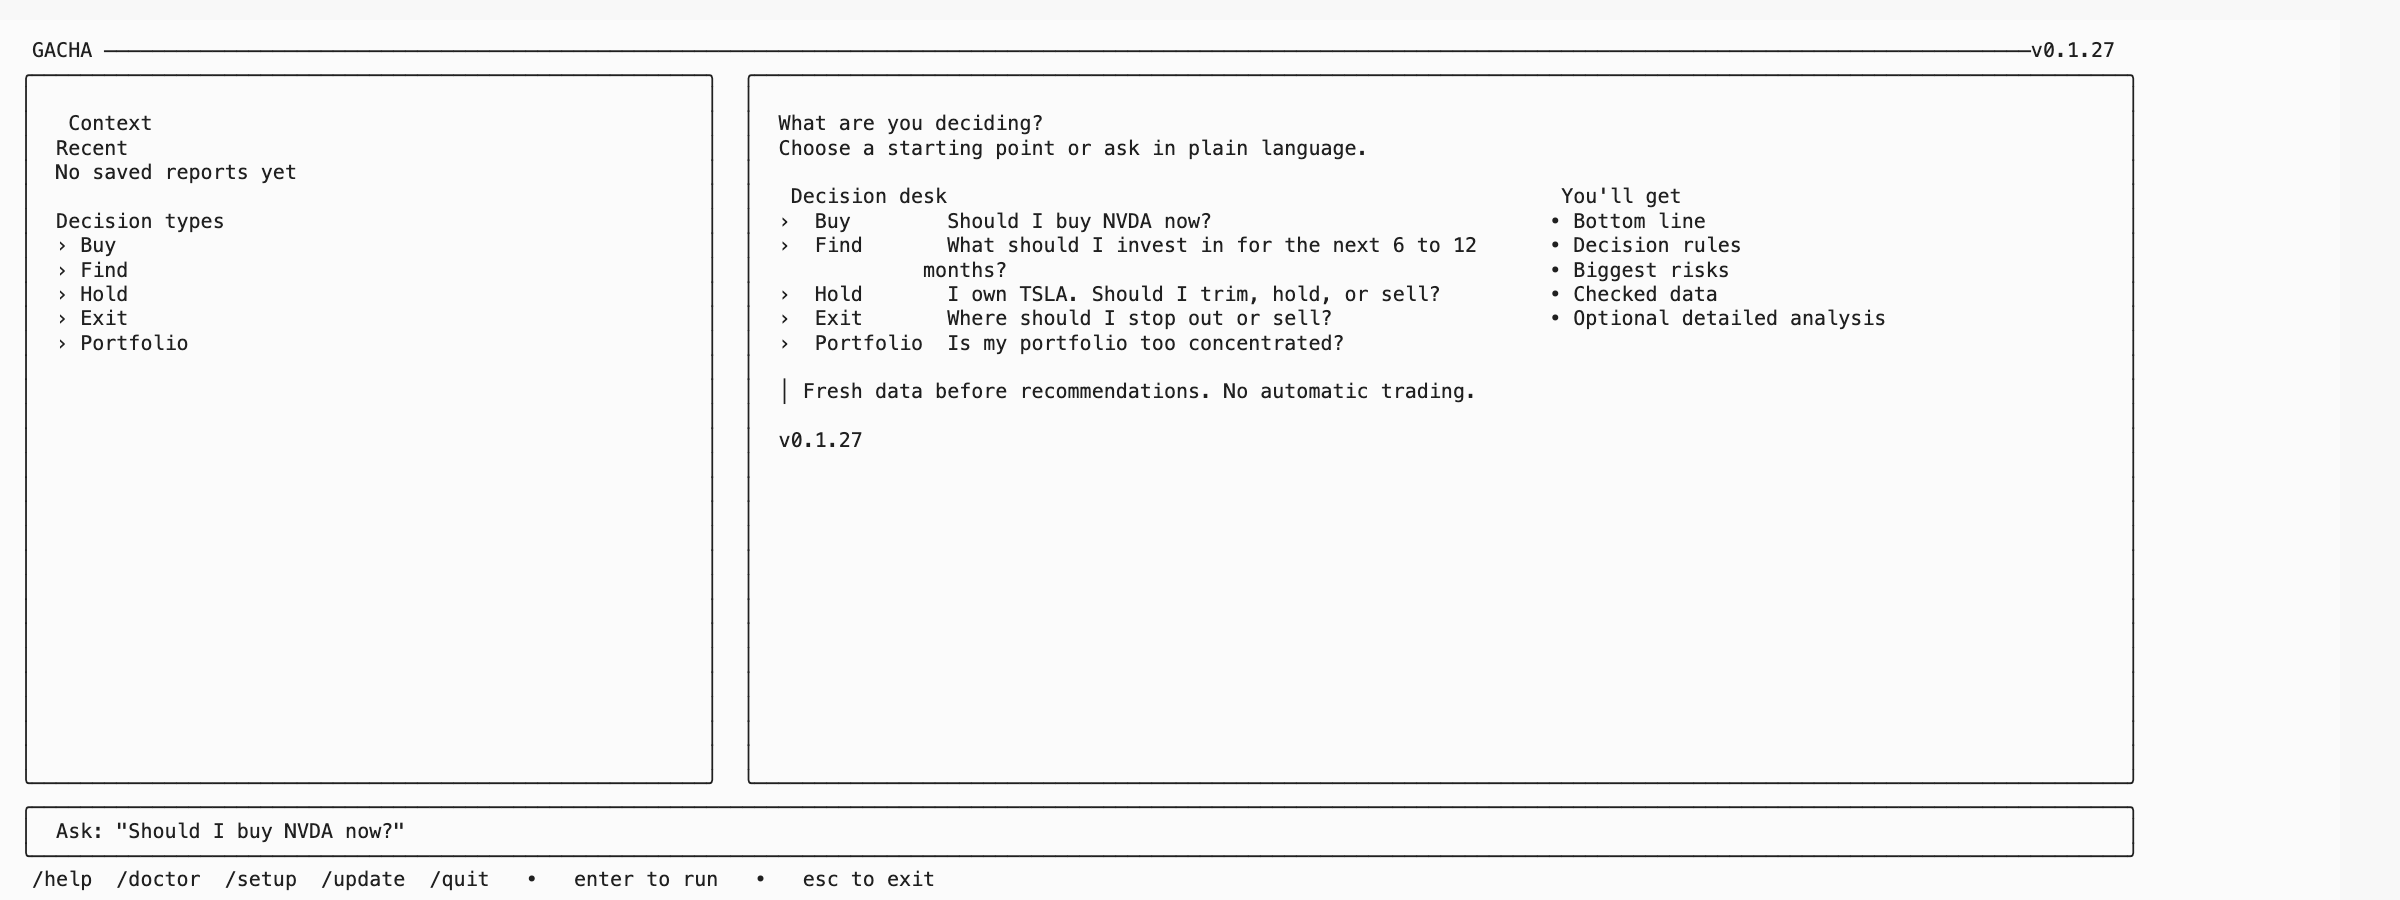
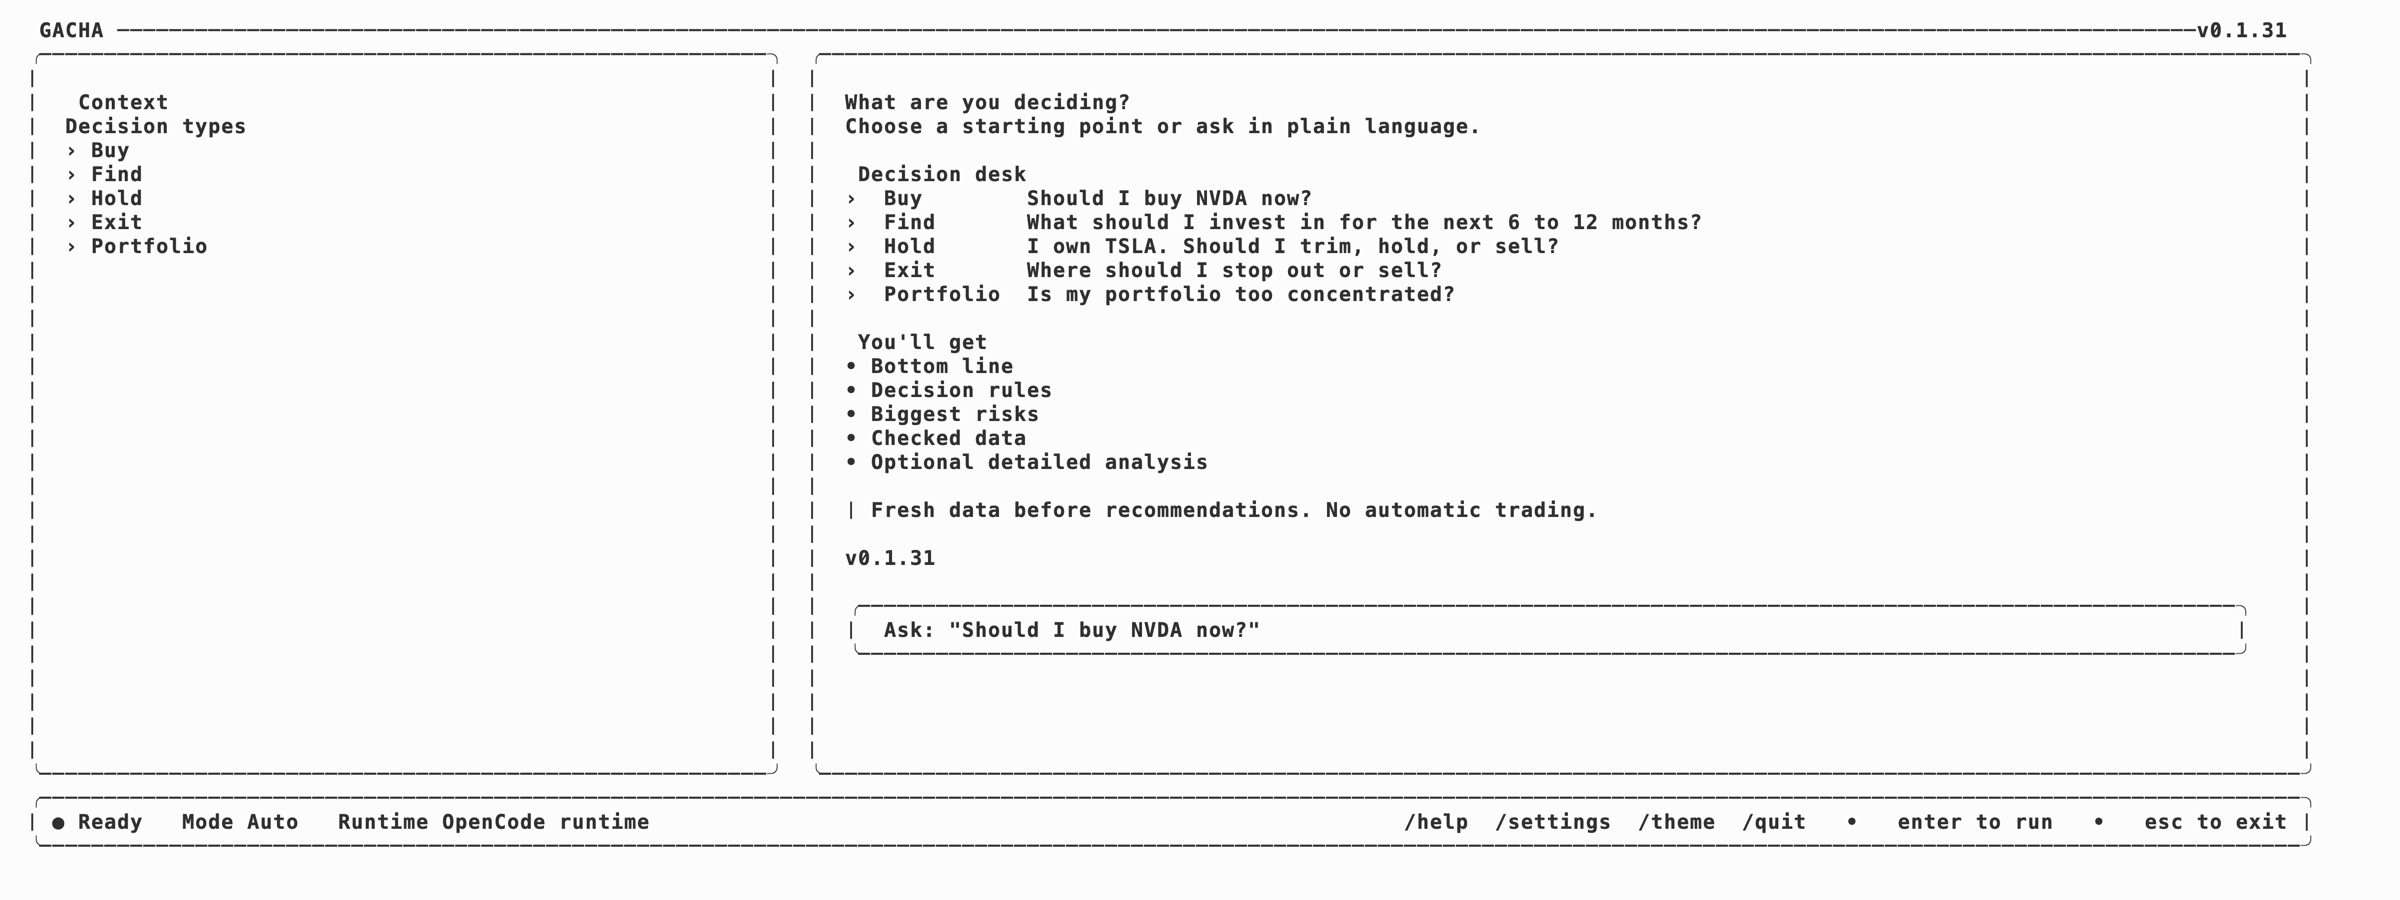
Polish split panel TUI layout

diff --git a/internal/app/app_test.go b/internal/app/app_test.go
@@ -500,17 +500,90 @@ func TestTUIViewFitsCommonTerminalSizes(t *testing.T) {
 			if strings.Contains(got, "Checks fresh data") {
 				t.Fatalf("status bar repeated safety copy:\n%s", got)
 			}
-			if strings.Contains(got, "Mode Auto") || strings.Contains(got, "OpenCode runtime") || strings.Contains(got, "Ready") {
-				t.Fatalf("home showed normal status chrome:\n%s", got)
-			}
 			if tc.name == "full" {
-				for _, expected := range []string{"Context", "Recent", "Decision types", "Decision desk"} {
+				for _, expected := range []string{"Context", "Decision types", "Decision desk", "Ready"} {
 					if !strings.Contains(got, expected) {
 						t.Fatalf("full layout missing %q:\n%s", expected, got)
 					}
 				}
+				if strings.Contains(got, "No saved reports yet") {
+					t.Fatalf("home context showed empty recent state:\n%s", got)
+				}
+				railWidth, _ := splitLayoutWidths(max(40, tc.width-4))
+				foundPrompt := false
+				for _, line := range strings.Split(got, "\n") {
+					promptColumn := strings.Index(line, "Ask:")
+					if promptColumn < 0 {
+						continue
+					}
+					foundPrompt = true
+					if promptColumn < railWidth {
+						t.Fatalf("full layout prompt crossed into the context rail at column %d before rail width %d:\n%s", promptColumn, railWidth, got)
+					}
+				}
+				if !foundPrompt {
+					t.Fatalf("full layout missing prompt input:\n%s", got)
+				}
 			}
 		})
+	}
+}
+
+func TestTUIFullLayoutKeepsLocalizedPromptInRightPanel(t *testing.T) {
+	for _, tc := range []struct {
+		name       string
+		text       uiText
+		promptText string
+	}{
+		{name: "english", text: englishText(), promptText: "Ask:"},
+		{name: "korean", text: koreanText(), promptText: "예:"},
+	} {
+		t.Run(tc.name, func(t *testing.T) {
+			model := newTUIModel("0.1.27")
+			model.text = tc.text
+			model.input.Placeholder = tc.text.InputPlaceholder
+			model.width = 180
+			model.height = 36
+			got := stripANSI(model.View())
+			railWidth, _ := splitLayoutWidths(max(40, model.width-4))
+			foundPrompt := false
+			for _, line := range strings.Split(got, "\n") {
+				promptColumn := strings.Index(line, tc.promptText)
+				if promptColumn < 0 {
+					continue
+				}
+				foundPrompt = true
+				if promptColumn < railWidth {
+					t.Fatalf("localized prompt crossed into the context rail at column %d before rail width %d:\n%s", promptColumn, railWidth, got)
+				}
+			}
+			if !foundPrompt {
+				t.Fatalf("missing localized prompt %q:\n%s", tc.promptText, got)
+			}
+		})
+	}
+}
+
+func TestTUIStatusBarRendersBelowWorkspace(t *testing.T) {
+	model := newTUIModel("0.1.27")
+	model.width = 180
+	model.height = 36
+	got := stripANSI(model.View())
+	promptLine := -1
+	statusLine := -1
+	for i, line := range strings.Split(got, "\n") {
+		if strings.Contains(line, "Ask:") {
+			promptLine = i
+		}
+		if strings.Contains(line, "Ready") && strings.Contains(line, "Mode") {
+			statusLine = i
+		}
+	}
+	if promptLine < 0 {
+		t.Fatalf("missing prompt input:\n%s", got)
+	}
+	if statusLine <= promptLine {
+		t.Fatalf("status bar did not render below workspace; prompt line %d status line %d:\n%s", promptLine, statusLine, got)
 	}
 }
 
@@ -522,10 +595,13 @@ func TestContextRailReflectsTUIState(t *testing.T) {
 	model.view.Height = 28
 
 	home := stripANSI(model.View())
-	for _, expected := range []string{"Context", "Recent", "Decision types"} {
+	for _, expected := range []string{"Context", "Decision types"} {
 		if !strings.Contains(home, expected) {
 			t.Fatalf("home context missing %q:\n%s", expected, home)
 		}
+	}
+	if strings.Contains(home, "No saved reports yet") {
+		t.Fatalf("home context showed empty recent state:\n%s", home)
 	}
 
 	model.busy = true

diff --git a/internal/app/tui.go b/internal/app/tui.go
@@ -86,11 +86,7 @@ func (m tuiModel) Update(msg tea.Msg) (tea.Model, tea.Cmd) {
 		m.view.Width = max(32, msg.Width-4)
 		m.view.Height = max(6, msg.Height-8)
 		m.input.Width = max(16, msg.Width-8)
-		if msg.Width < 72 {
-			m.input.Placeholder = m.text.InputPlaceholderShort
-		} else {
-			m.input.Placeholder = m.text.InputPlaceholder
-		}
+		m.input.Placeholder = inputPlaceholderForWidth(m.text, msg.Width)
 		if m.mode == m.text.Auto && !m.busy {
 			m.view.SetContent(welcomeContent(m.version, m.text, m.view.Width, m.view.Height))
 		}
@@ -344,60 +340,55 @@ func (m tuiModel) View() string {
 		outerPadding = 2
 	}
 	bodyWidth := max(40, width-outerPadding)
-	contentHeight := max(6, m.height-8)
+	contentHeight := max(6, m.height-7)
 	fullLayout := bodyWidth >= 132 && m.height >= 22
 	_, workspaceWidth := splitLayoutWidths(bodyWidth)
 	if fullLayout {
-		m.view.Width = max(30, workspaceWidth-4)
+		m.view.Width = max(30, workspaceWidth-8)
+		m.input.Width = max(16, workspaceWidth-12)
 	} else {
 		m.view.Width = max(30, bodyWidth-4)
+		m.input.Width = max(16, bodyWidth-8)
 	}
-	m.view.Height = contentHeight
+	m.input.Placeholder = inputPlaceholderForWidth(m.text, m.input.Width)
+	workspaceHeight := contentHeight
+	if fullLayout {
+		workspaceHeight = max(6, contentHeight-4)
+	}
+	m.view.Height = workspaceHeight
 
 	content := m.view.View()
 	if m.mode == m.text.Auto && !m.busy {
-		content = welcomeContent(m.version, m.text, m.view.Width, contentHeight)
+		content = welcomeContentWithColumns(m.version, m.text, m.view.Width, workspaceHeight, !fullLayout)
 		if !fullLayout {
 			homeHeight := lipgloss.Height(content) + 2
 			contentHeight = min(contentHeight, max(8, homeHeight))
+			workspaceHeight = contentHeight
 		}
-		m.view.Height = contentHeight
+		m.view.Height = workspaceHeight
 	}
 
 	header := renderHeader(bodyWidth, m.version)
-	var status string
-	if m.showStatus() {
-		status = renderStatus(bodyWidth, m.status, m.runtime, m.mode, m.busy, m.spin.View(), m.text)
-	}
 	panel := panelStyle.Width(bodyWidth - 2).Height(contentHeight).Render(content)
 	if fullLayout {
-		panel = m.renderSplitMain(bodyWidth, contentHeight, content)
+		panel = m.renderSplitMain(bodyWidth, contentHeight, content, m.input.View())
 	}
-	input := renderInput(bodyWidth, m.input.View())
-	footer := renderFooter(bodyWidth, m.text)
+	status := renderStatus(bodyWidth, m.status, m.runtime, m.mode, m.busy, m.spin.View(), m.text)
 	parts := []string{header}
-	if status != "" {
-		parts = append(parts, status)
+	parts = append(parts, panel)
+	if !fullLayout {
+		parts = append(parts, renderInput(bodyWidth, m.input.View()))
 	}
-	parts = append(parts, panel, input, footer)
+	parts = append(parts, status)
 	return lipgloss.JoinVertical(lipgloss.Left, parts...)
 }
 
-func (m tuiModel) showStatus() bool {
-	if m.busy {
-		return true
-	}
-	if m.mode == m.text.Auto && m.status == m.text.Ready {
-		return false
-	}
-	return true
-}
-
-func (m tuiModel) renderSplitMain(bodyWidth int, height int, workspace string) string {
+func (m tuiModel) renderSplitMain(bodyWidth int, height int, workspace string, input string) string {
 	gap := 2
 	railWidth, workspaceWidth := splitLayoutWidths(bodyWidth)
 	rail := panelStyle.Width(railWidth - 2).Height(height).Render(m.contextRail(railWidth - 4))
-	main := panelStyle.Width(workspaceWidth - 2).Height(height).Render(workspace)
+	mainContent := lipgloss.JoinVertical(lipgloss.Left, workspace, "", renderInput(workspaceWidth-8, input))
+	main := panelStyle.Width(workspaceWidth - 2).Height(height).Render(mainContent)
 	return lipgloss.JoinHorizontal(lipgloss.Top, rail, strings.Repeat(" ", gap), main)
 }
 
@@ -409,6 +400,13 @@ func splitLayoutWidths(bodyWidth int) (int, int) {
 		workspaceWidth = max(40, bodyWidth-railWidth-gap)
 	}
 	return railWidth, workspaceWidth
+}
+
+func inputPlaceholderForWidth(text uiText, width int) string {
+	if width < 72 {
+		return text.InputPlaceholderShort
+	}
+	return text.InputPlaceholder
 }
 
 func runPromptCmd(query string) tea.Cmd {
@@ -480,8 +478,12 @@ func runDetailedPrompt(query string, basicReport string) promptRunResult {
 }
 
 func welcomeContent(version string, text uiText, width int, height int) string {
+	return welcomeContentWithColumns(version, text, width, height, true)
+}
+
+func welcomeContentWithColumns(version string, text uiText, width int, height int, allowColumns bool) string {
 	compact := width < 72 || height < 14
-	wide := width >= 104 && height >= 16
+	wide := allowColumns && width >= 104 && height >= 16
 	actions := text.HomeActions
 	outcomes := text.HomeOutcomes
 	if compact {
@@ -704,9 +706,6 @@ func (m tuiModel) homeContext(width int) string {
 	actions := actionNames(m.text.HomeActions)
 	lines := []string{
 		sectionStyle.Render(m.text.ContextTitle),
-		titleStyle.Render(m.text.ContextRecentTitle),
-		mutedStyle.Render(m.text.ContextNoRecent),
-		"",
 		titleStyle.Render(m.text.ContextTypesTitle),
 	}
 	for _, action := range actions {
@@ -817,7 +816,17 @@ func renderStatus(width int, status string, runtime string, mode string, busy bo
 	if width >= 92 {
 		items = append(items, mutedStyle.Render(text.StatusRuntime+runtime))
 	}
-	return statusStyle.Width(width - 2).Render(strings.Join(items, "   "))
+	left := strings.Join(items, "   ")
+	right := renderFooter(width, text)
+	gap := width - 4 - lipgloss.Width(left) - lipgloss.Width(right)
+	if gap < 3 {
+		right = renderFooter(72, text)
+		gap = width - 4 - lipgloss.Width(left) - lipgloss.Width(right)
+	}
+	if gap < 3 {
+		return statusStyle.Width(width - 2).Render(left)
+	}
+	return statusStyle.Width(width - 2).Render(left + strings.Repeat(" ", gap) + right)
 }
 
 func renderInput(width int, input string) string {

diff --git a/internal/app/locale.go b/internal/app/locale.go
@@ -108,8 +108,6 @@ type uiText struct {
 	HomeOutcomes          []string
 	HomeNote              string
 	ContextTitle          string
-	ContextRecentTitle    string
-	ContextNoRecent       string
 	ContextTypesTitle     string
 	ContextRequestTitle   string
 	ContextResearchTitle  string
@@ -214,8 +212,6 @@ func englishText() uiText {
 		},
 		HomeNote:              "Fresh data before recommendations. No automatic trading.",
 		ContextTitle:          "Context",
-		ContextRecentTitle:    "Recent",
-		ContextNoRecent:       "No saved reports yet",
 		ContextTypesTitle:     "Decision types",
 		ContextRequestTitle:   "Current request",
 		ContextResearchTitle:  "Research",
@@ -355,8 +351,6 @@ func koreanText() uiText {
 		},
 		HomeNote:              "추천 전 최신 데이터를 확인합니다. 거래는 실행하지 않습니다.",
 		ContextTitle:          "맥락",
-		ContextRecentTitle:    "최근",
-		ContextNoRecent:       "저장된 리포트 없음",
 		ContextTypesTitle:     "결정 유형",
 		ContextRequestTitle:   "현재 질문",
 		ContextResearchTitle:  "조사",

diff --git a/cmd/gacha/main.go b/cmd/gacha/main.go
@@ -7,7 +7,7 @@ import (
 	"github.com/dkstm95/gacha/internal/app"
 )
 
-var version = "0.1.30"
+var version = "0.1.31"
 
 func main() {
 	application := app.New(version)

diff --git a/README.md b/README.md
@@ -58,25 +58,25 @@ Windows automatic OpenCode setup is not supported yet. Install OpenCode from its
 gch
 ```
 
-You will see a terminal workspace with a left-side context rail and a main research area:
+You will see a terminal workspace with a left context rail, a right research area, and a thin global status bar:
 
 ![Gacha TUI home screen](docs/assets/gacha-home.png)
 
-Type a question:
+Type a question in the right-side prompt:
 
 ```text
-Ask > Should I buy NVDA now?
+Ask: "Should I buy NVDA now?"
 ```
 
-You do not need to pick a model or choose an AI platform. `gacha` handles routing through OpenCode. On wide terminals, the context rail shows recent state and decision types; on smaller terminals, it collapses so the workspace and prompt stay focused.
+You do not need to pick a model or choose an AI platform. `gacha` handles routing through OpenCode. On wide terminals, the left rail stays focused on context and decision types while the prompt stays inside the right workspace; on smaller terminals, the layout collapses around the workspace and prompt.
 
 ## Example Questions
 
 ```text
-Ask > What should I invest in for the next 6 to 12 months?
-Ask > I want exposure to AI infrastructure. Which stocks or ETFs should I compare?
-Ask > I own TSLA. When should I trim, sell, or stop out?
-Ask > Review my portfolio: AAPL 35%, NVDA 30%, SGOV 35%.
+Ask: What should I invest in for the next 6 to 12 months?
+Ask: I want exposure to AI infrastructure. Which stocks or ETFs should I compare?
+Ask: I own TSLA. When should I trim, sell, or stop out?
+Ask: Review my portfolio: AAPL 35%, NVDA 30%, SGOV 35%.
 ```
 
 You can also ask one question without opening the app:

diff --git a/docs/ko/README.md b/docs/ko/README.md
@@ -58,25 +58,25 @@ Windows에서는 OpenCode 자동 설치를 아직 지원하지 않습니다. Ope
 gch
 ```
 
-좌측 context rail과 메인 리서치 영역이 있는 터미널 workspace가 열립니다.
+좌측 context rail, 우측 리서치 영역, 얇은 전역 하단 상태바가 있는 터미널 workspace가 열립니다.
 
 ![Gacha TUI 홈 화면](../assets/gacha-home.png)
 
-질문을 입력하면 됩니다.
+우측 프롬프트에 질문을 입력하면 됩니다.
 
 ```text
-Ask > NVDA 지금 사도 될까?
+예: "NVDA 지금 사도 될까?"
 ```
 
-사용자가 모델이나 AI 플랫폼을 고를 필요는 없습니다. `gacha`가 OpenCode를 통해 내부적으로 라우팅합니다. 넓은 터미널에서는 좌측 context rail에 최근 상태와 결정 유형을 보여주고, 작은 터미널에서는 workspace와 입력창 중심으로 접힙니다.
+사용자가 모델이나 AI 플랫폼을 고를 필요는 없습니다. `gacha`가 OpenCode를 통해 내부적으로 라우팅합니다. 넓은 터미널에서는 좌측 rail이 맥락과 결정 유형에 집중하고 프롬프트는 우측 workspace 안에 머뭅니다. 작은 터미널에서는 workspace와 입력창 중심으로 접힙니다.
 
 ## 질문 예시
 
 ```text
-Ask > 6개월에서 12개월 관점에서 무엇에 투자하면 좋을까?
-Ask > AI 인프라에 투자하고 싶은데 어떤 종목이나 ETF를 비교해야 할까?
-Ask > TSLA를 보유 중인데 언제 줄이거나 팔아야 할까?
-Ask > 내 포트폴리오를 점검해줘: AAPL 35%, NVDA 30%, SGOV 35%
+예: 6개월에서 12개월 관점에서 무엇에 투자하면 좋을까?
+예: AI 인프라에 투자하고 싶은데 어떤 종목이나 ETF를 비교해야 할까?
+예: TSLA를 보유 중인데 언제 줄이거나 팔아야 할까?
+예: 내 포트폴리오를 점검해줘: AAPL 35%, NVDA 30%, SGOV 35%
 ```
 
 앱을 열지 않고 한 번만 질문할 수도 있습니다.

diff --git a/docs/development.md b/docs/development.md
@@ -15,8 +15,8 @@ ln -sf gacha gch
 ## Release
 
 ```bash
-VERSION=0.1.30 sh scripts/build-release.sh
-gh release create v0.1.30 dist/*.tar.gz dist/*.zip dist/checksums.txt --title "v0.1.30"
+VERSION=0.1.31 sh scripts/build-release.sh
+gh release create v0.1.31 dist/*.tar.gz dist/*.zip dist/checksums.txt --title "v0.1.31"
 ```
 
 GitHub Actions templates are available in: